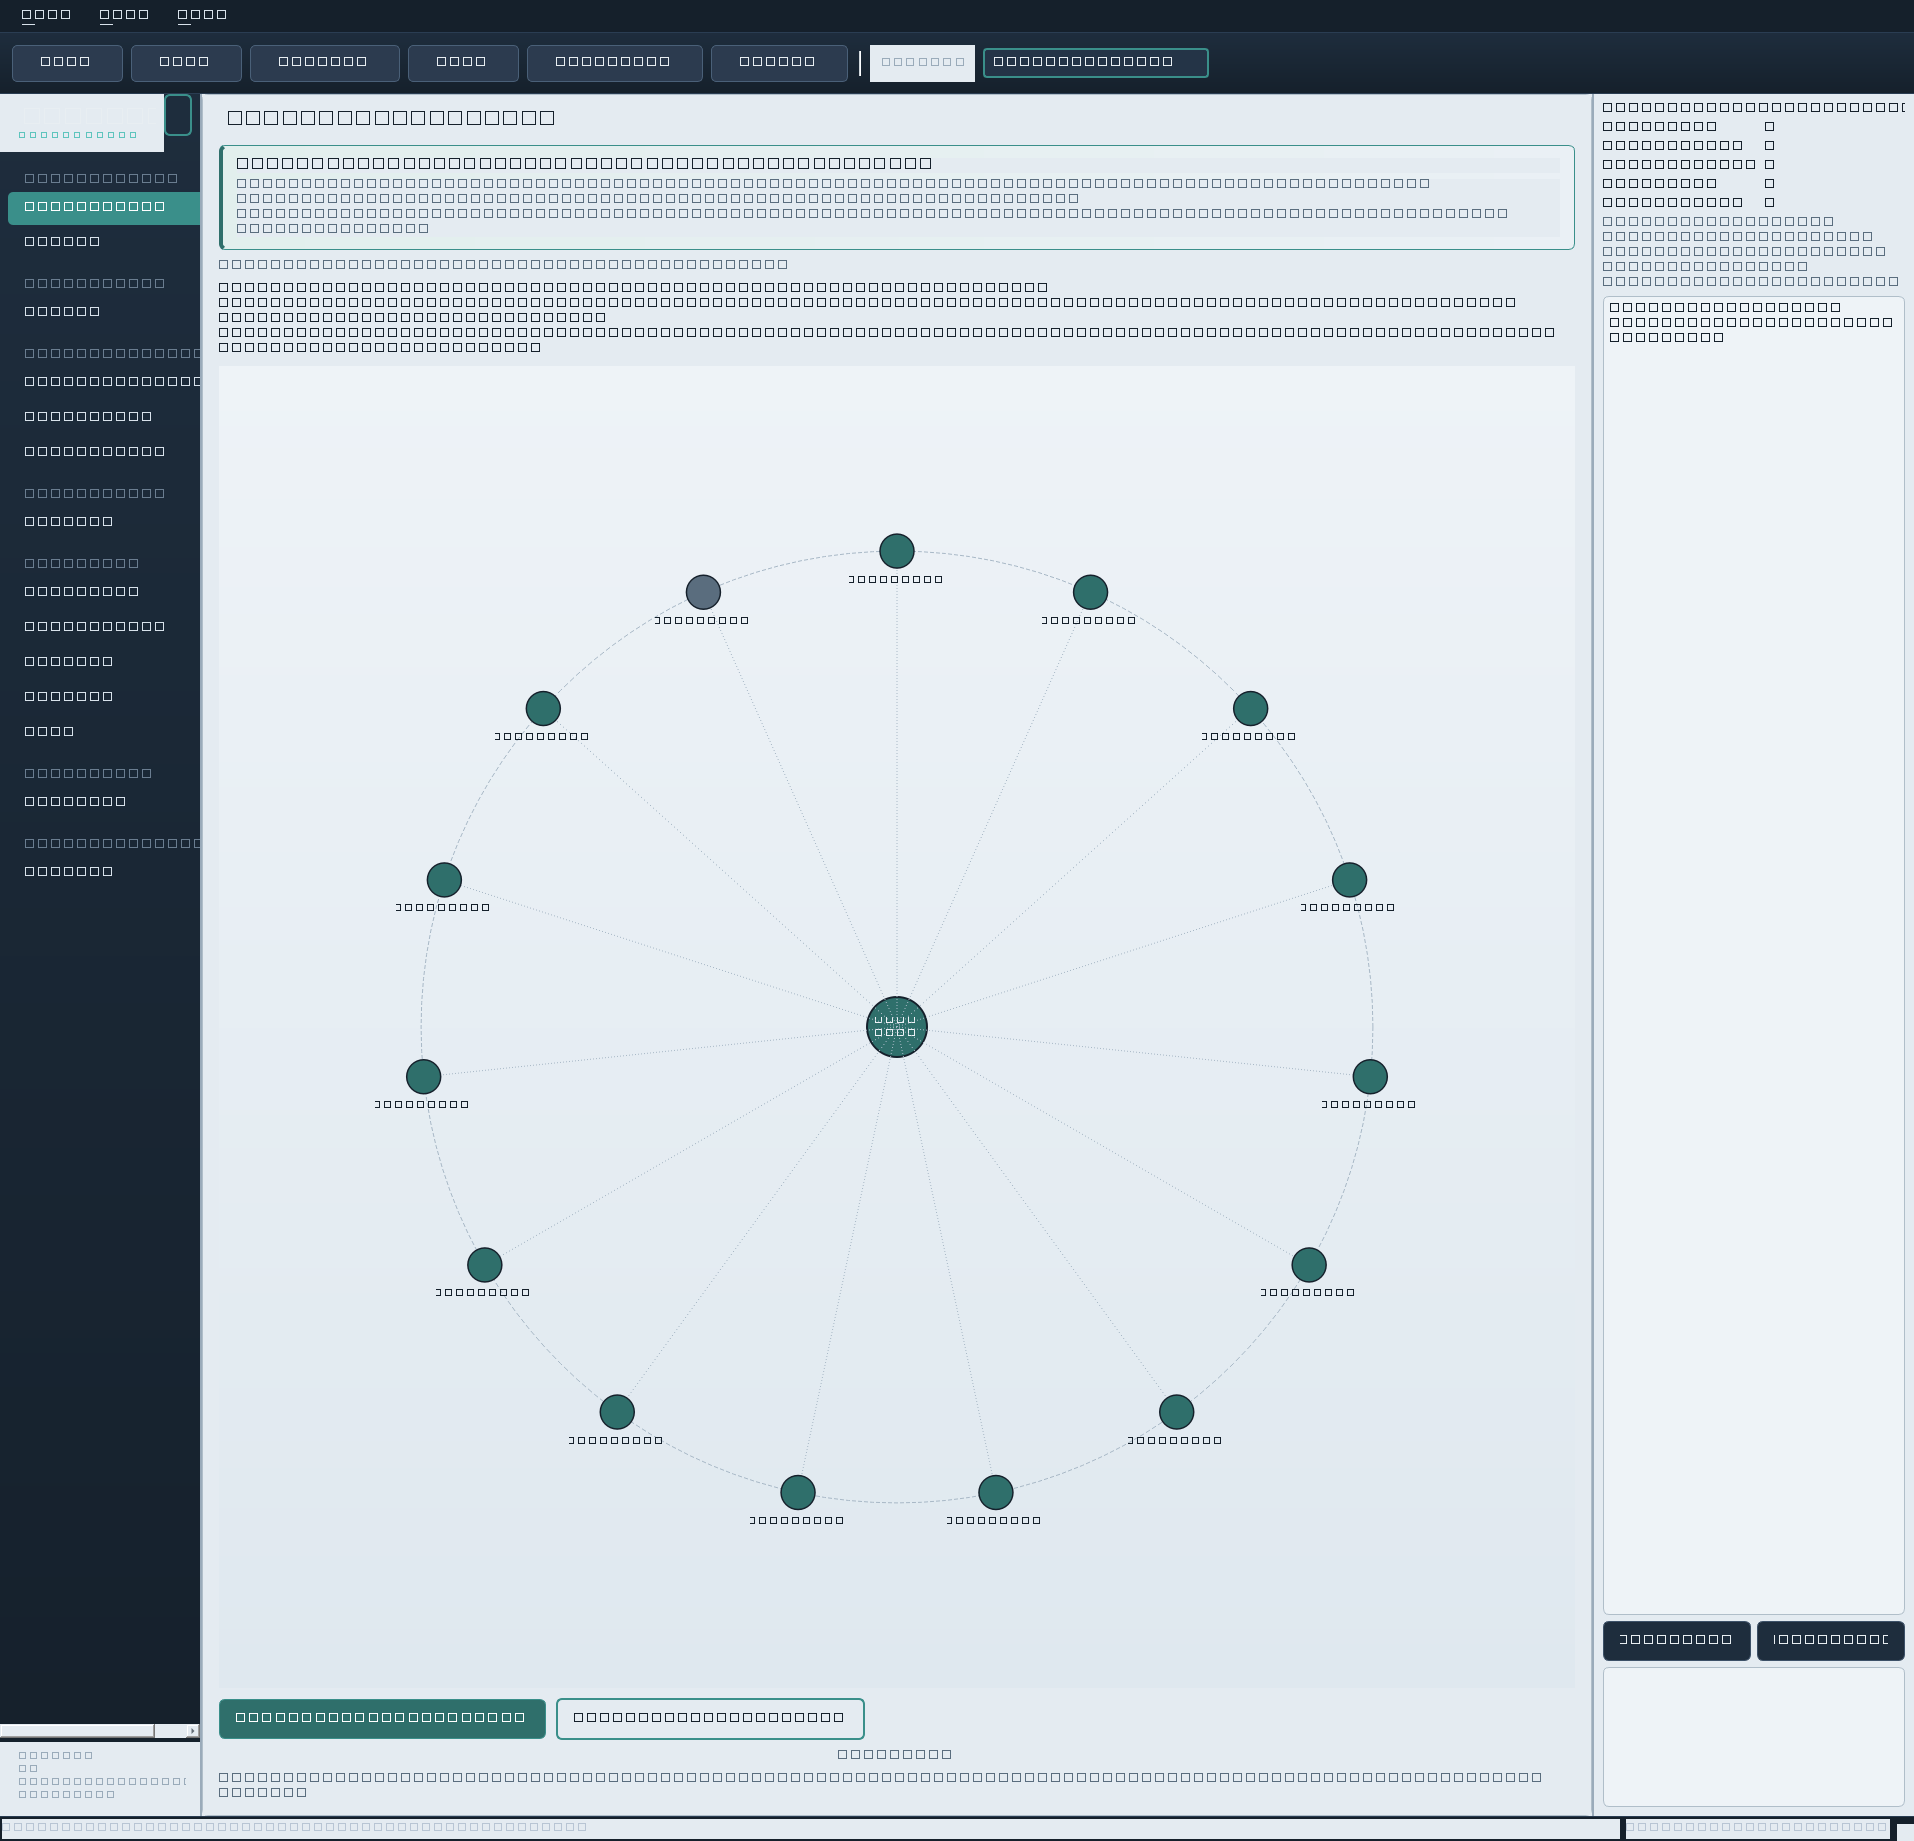
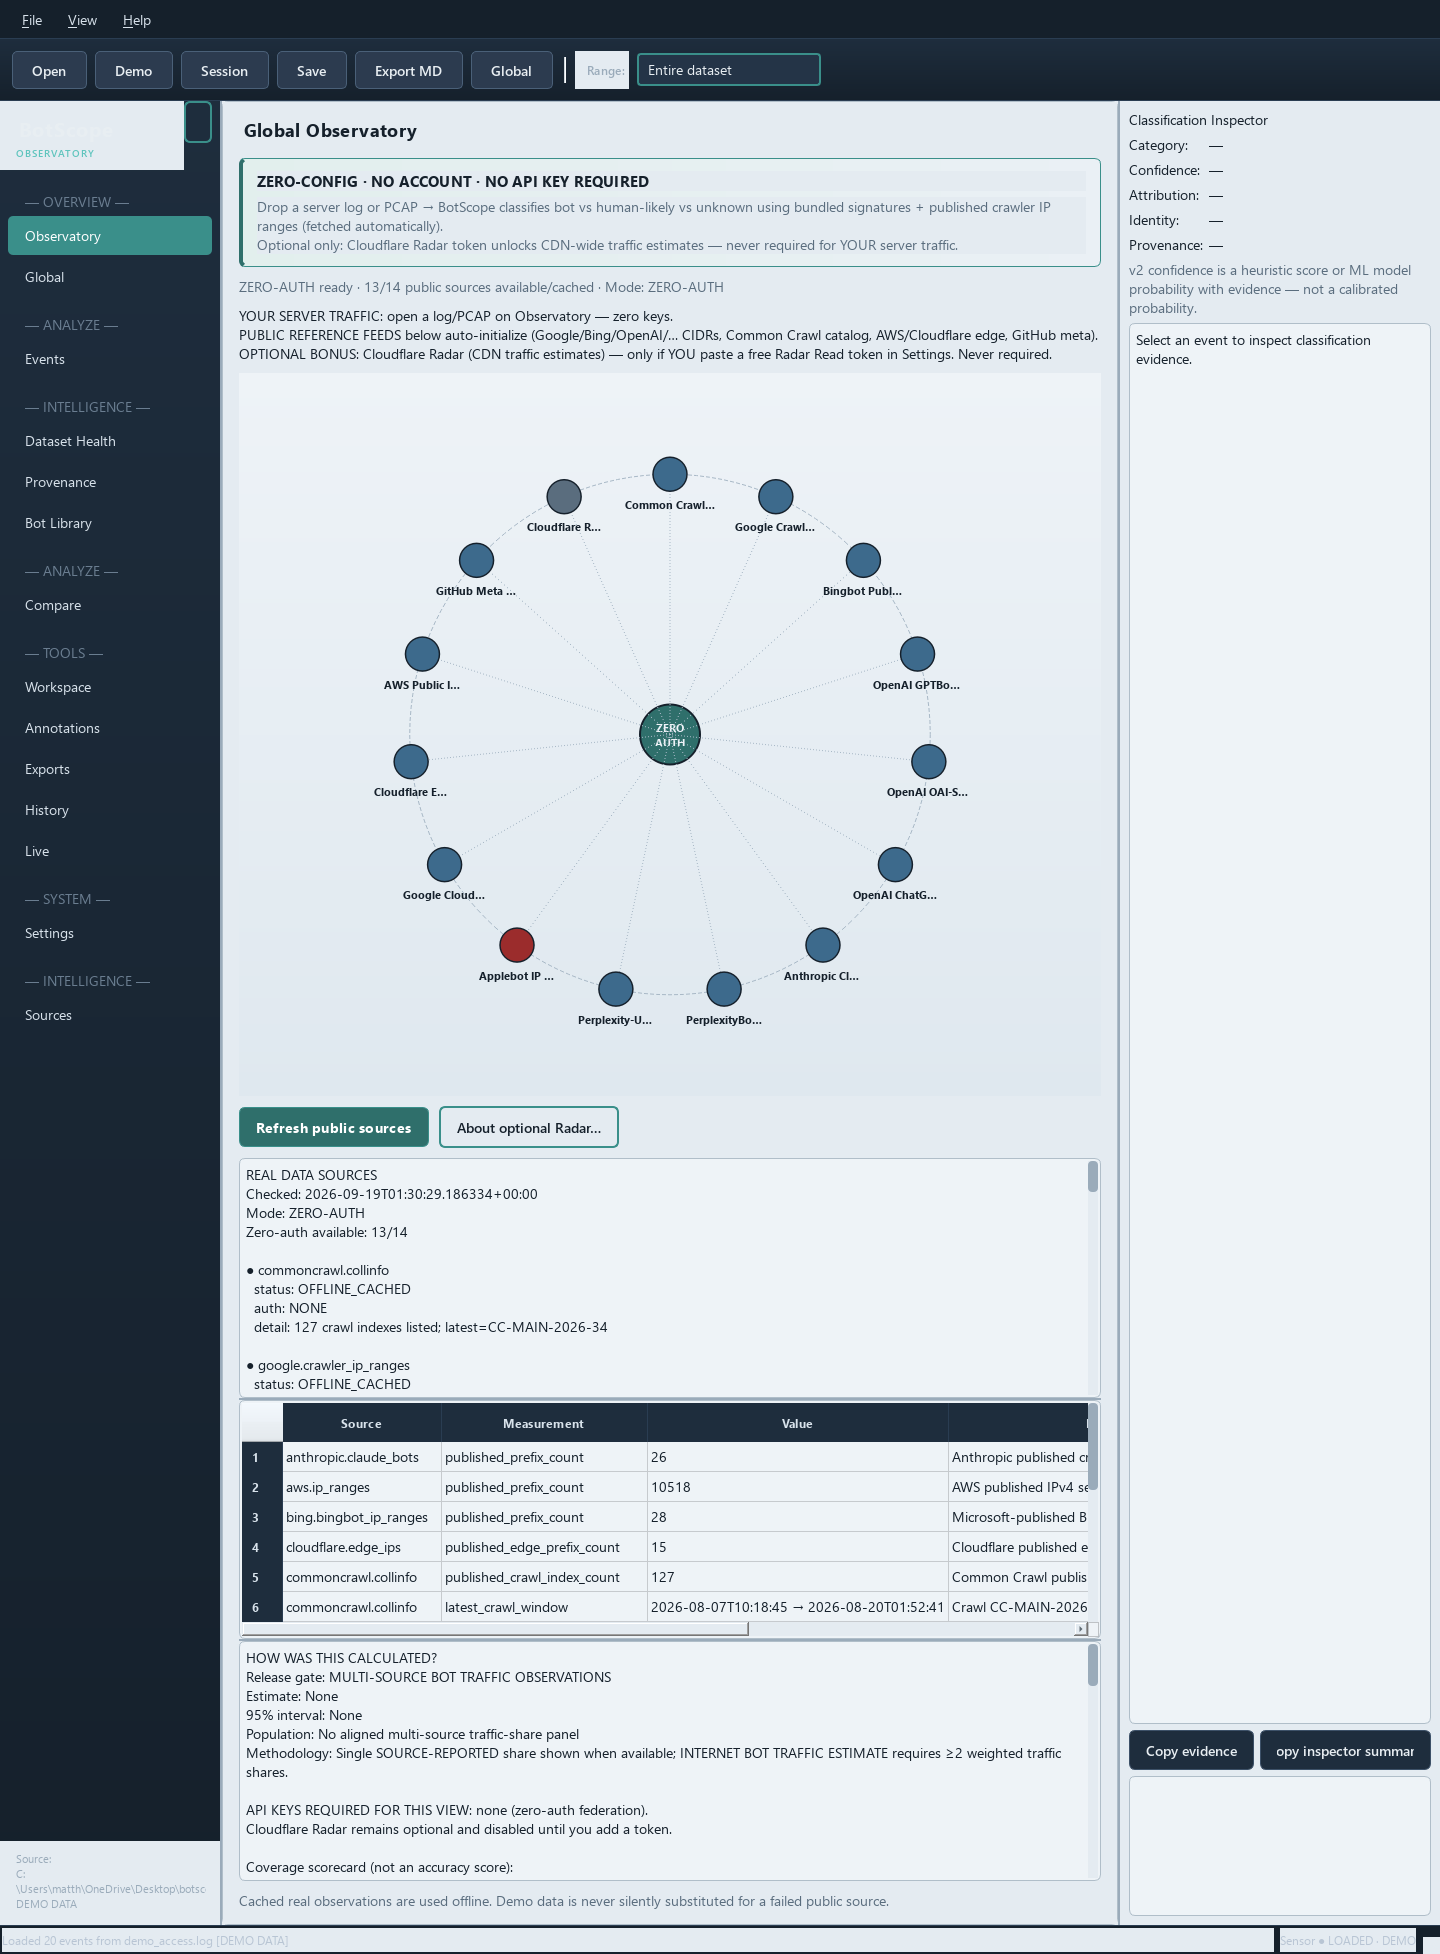
fix: restore readable GUI fonts in docs screenshots and GIF.
Qt had an empty font database here, so labels rendered as tofu boxes. Register system TTFs at launch, recapture Observatory shots, and rebuild the demo tour assets.

diff --git a/scripts/capture_docs_screenshots.py b/scripts/capture_docs_screenshots.py
@@ -7,6 +7,8 @@ Usage (from repo root, with GUI extras installed):
 
 Writes PNGs under docs/assets/screenshots/. Clears any Cloudflare token
 field before capturing Settings so no secrets appear in docs assets.
+
+Forces Segoe UI so labels never render as empty tofu boxes.
 """
 
 from __future__ import annotations
@@ -22,15 +24,45 @@ if str(SRC) not in sys.path:
     sys.path.insert(0, str(SRC))
 
 
+def _assert_text_readable(path: Path) -> None:
+    """Fail fast if the grab looks like tofu-box font failure."""
+    from PIL import Image, ImageStat
+
+    im = Image.open(path).convert("RGB")
+    w, h = im.size
+    # Probe several content bands — pages differ in where labels sit.
+    bands = [
+        (0.28, 0.10, 0.75, 0.22),
+        (0.28, 0.22, 0.75, 0.40),
+        (0.28, 0.40, 0.70, 0.58),
+    ]
+    best_spread = 0
+    best_ink = 0
+    for left, top, right, bottom in bands:
+        band = im.crop((int(w * left), int(h * top), int(w * right), int(h * bottom)))
+        gray = band.convert("L")
+        extrema = gray.getextrema()
+        spread = (extrema[1] - extrema[0]) if extrema else 0
+        pixels = list(gray.getdata())
+        ink = sum(1 for v in pixels if v < 90)
+        best_spread = max(best_spread, spread)
+        best_ink = max(best_ink, ink)
+    # Tofu-box failures are nearly flat (spread ~0). Real UI has strong contrast.
+    if best_spread < 40:
+        raise SystemExit(
+            f"ERROR: {path.name} looks unreadable "
+            f"(spread={best_spread}, ink={best_ink}). Refusing overwrite."
+        )
+
+
 def main() -> int:
-    from PySide6.QtCore import QTimer
+    from PySide6.QtCore import QTimer, Qt
     from PySide6.QtWidgets import QApplication, QLineEdit
 
-    # Avoid welcome dialog / last-session reopen during capture.
     from botscope.gui.main_window import ObservatoryWindow
     from botscope.gui.motion import set_reduce_motion
     from botscope.gui.navigation import page_index
-    from botscope.gui.theme import set_chart_theme, stylesheet_for
+    from botscope.gui.theme import apply_application_font, set_chart_theme, stylesheet_for
     from botscope.ux import load_settings
 
     OUT.mkdir(parents=True, exist_ok=True)
@@ -42,25 +74,27 @@ def main() -> int:
         open_last_session_on_start=False,
         reduce_motion=True,
         chart_animation=False,
-        # Docs shots should show full branded sidebar, not a collapsed strip.
         sidebar_collapsed=False,
         sidebar_width=220,
         theme="instrument",
-        # Never render a real token into docs screenshots.
         cloudflare_radar_token=None,
     )
 
+    # Prefer crisp integer DPI for documentation grabs.
+    QApplication.setHighDpiScaleFactorRoundingPolicy(
+        Qt.HighDpiScaleFactorRoundingPolicy.PassThrough
+    )
     app = QApplication(sys.argv)
     app.setApplicationName("BotScope")
     app.setOrganizationName("BotScope")
     app.setStyle("Fusion")
+    apply_application_font(app)
     set_chart_theme(capture_settings.theme)
     set_reduce_motion(True)
     app.setStyleSheet(stylesheet_for(capture_settings.theme))
 
     win = ObservatoryWindow(settings=capture_settings)
     win.resize(1440, 900)
-    # Force expanded branded sidebar for documentation shots.
     win._sidebar_collapsed = False
     win.nav_collapse_btn.setText("«")
     if hasattr(win, "_set_nav_collapsed_labels"):
@@ -71,8 +105,8 @@ def main() -> int:
     win.show()
     win.raise_()
     win.activateWindow()
-    # Re-assert sizes after show (layout may clamp before first paint).
     win._nav_splitter.setSizes([220, 1220])
+    app.processEvents()
 
     shots: list[tuple[str, str]] = [
         ("observatory", "observatory-dashboard.png"),
@@ -86,9 +120,14 @@ def main() -> int:
     state = {"phase": "load_demo", "attempts": 0}
 
     def grab(name: str) -> None:
+        app.processEvents()
         path = OUT / name
+        # QWidget.grab() is reliable once fonts are registered into QFontDatabase.
         pix = win.grab()
+        if pix.isNull() or pix.width() < 400:
+            raise SystemExit(f"ERROR: null/empty grab for {name}")
         pix.save(str(path), "PNG")
+        _assert_text_readable(path)
         print(f"wrote {path} ({pix.width()}x{pix.height()})")
 
     def tick() -> None:
@@ -126,19 +165,16 @@ def main() -> int:
             if settle == 0:
                 win.tabs.setCurrentIndex(page_index(page_id))
                 if page_id == "settings":
-                    # Ensure token field is empty/masked placeholder only.
                     token = win.settings_panel.cf_token
                     token.clear()
                     token.setEchoMode(QLineEdit.EchoMode.Password)
                     token.setPlaceholderText(
                         "OPTIONAL — leave blank; not needed for your server logs"
                     )
-                elif page_id == "global":
-                    # Give Global panel a moment to paint status chips.
-                    pass
                 state["settle"] = 1
                 return
-            if settle < 3:
+            # Longer settle so layout + fonts fully paint before grab.
+            if settle < 8:
                 state["settle"] = settle + 1
                 return
             grab(filename)
@@ -147,11 +183,9 @@ def main() -> int:
             return
 
     timer = QTimer()
-    timer.setInterval(150)
+    timer.setInterval(200)
     timer.timeout.connect(tick)
     timer.start()
-    # Kick off after the event loop starts.
-    QTimer.singleShot(400, lambda: None)
     return app.exec()
 
 

diff --git a/src/botscope/gui/theme.py b/src/botscope/gui/theme.py
@@ -60,6 +60,51 @@ def chart_colors() -> dict[str, str]:
     return CHART_PALETTE.get(_ACTIVE_CHART_THEME, CHART_PALETTE["instrument"])
 
 
+def apply_application_font(app) -> None:
+    """Force a universally available UI font so text never renders as tofu boxes.
+
+    Some Windows + Qt environments expose an empty QFontDatabase (family_count=0),
+    which makes every label render as hollow .notdef boxes. We explicitly register
+    common system TTF files when the database is empty or missing Segoe UI.
+    """
+    import os
+    from pathlib import Path
+
+    from PySide6.QtGui import QFont, QFontDatabase
+
+    def _ensure_system_fonts() -> None:
+        if QFontDatabase.hasFamily("Segoe UI") and QFontDatabase.hasFamily("Consolas"):
+            return
+        windir = Path(os.environ.get("WINDIR", r"C:\Windows"))
+        font_dir = windir / "Fonts"
+        if not font_dir.is_dir():
+            return
+        for filename in (
+            "segoeui.ttf",
+            "segoeuib.ttf",
+            "segoeuil.ttf",
+            "segoeuiz.ttf",
+            "seguisb.ttf",
+            "consola.ttf",
+            "consolab.ttf",
+            "arial.ttf",
+            "arialbd.ttf",
+            "tahoma.ttf",
+        ):
+            path = font_dir / filename
+            if path.is_file():
+                QFontDatabase.addApplicationFont(str(path))
+
+    _ensure_system_fonts()
+
+    preferred = ("Segoe UI", "Arial", "Tahoma", "Sans Serif")
+    family = next((name for name in preferred if QFontDatabase.hasFamily(name)), "Sans Serif")
+    font = QFont(family, 10)
+    font.setStyleHint(QFont.StyleHint.SansSerif)
+    font.setHintingPreference(QFont.HintingPreference.PreferFullHinting)
+    app.setFont(font)
+
+
 def stylesheet_for(theme: str) -> str:
     from botscope.gui.theme_contrast import HIGH_CONTRAST
 
@@ -73,8 +118,8 @@ STYLESHEET = """
 QWidget {
     background-color: #e4ebf1;
     color: #15202b;
-    font-family: "Bahnschrift", "Segoe UI Semibold", "Segoe UI", "IBM Plex Sans", sans-serif;
-    font-size: 13px;
+    font-family: "Segoe UI", "Segoe UI Variable Text", sans-serif;
+    font-size: 14px;
 }
 QMainWindow, QDialog {
     background-color: #d5dee7;
@@ -406,7 +451,7 @@ QLabel#metricValue {
     font-size: 28px;
     font-weight: 700;
     color: #15202b;
-    font-family: "Cascadia Mono", "Consolas", "Courier New", monospace;
+    font-family: "Consolas", "Courier New", monospace;
 }
 QLabel#metricCaption {
     font-size: 11px;

diff --git a/scripts/build_demo_gif.py b/scripts/build_demo_gif.py
@@ -3,11 +3,12 @@
 
 from __future__ import annotations
 
+import os
 import shutil
 import subprocess
 from pathlib import Path
 
-from PIL import Image, ImageDraw
+from PIL import Image, ImageDraw, ImageFont
 
 ROOT = Path(__file__).resolve().parents[1]
 SHOTS = ROOT / "docs" / "assets" / "screenshots"
@@ -23,10 +24,25 @@ ORDER = [
 ]
 
 
+def _caption_font(size: int = 16) -> ImageFont.ImageFont:
+    candidates = [
+        Path(os.environ.get("WINDIR", r"C:\Windows")) / "Fonts" / "segoeui.ttf",
+        Path(os.environ.get("WINDIR", r"C:\Windows")) / "Fonts" / "arial.ttf",
+    ]
+    for path in candidates:
+        if path.is_file():
+            try:
+                return ImageFont.truetype(str(path), size=size)
+            except OSError:
+                continue
+    return ImageFont.load_default()
+
+
 def main() -> None:
     DEMO.mkdir(parents=True, exist_ok=True)
     frames: list[Image.Image] = []
     target_w = 960
+    font = _caption_font(16)
     for name, caption in ORDER:
         im = Image.open(SHOTS / name).convert("RGB")
         w, h = im.size
@@ -38,7 +54,7 @@ def main() -> None:
         canvas = Image.new("RGB", (im.width, im.height + bar_h), (21, 32, 43))
         canvas.paste(im, (0, bar_h))
         draw = ImageDraw.Draw(canvas)
-        draw.text((14, 10), f"BotScope — {caption}", fill=(216, 226, 235))
+        draw.text((14, 8), f"BotScope — {caption}", fill=(216, 226, 235), font=font)
         frames.append(canvas)
 
     gif_path = DEMO / "botscope-tour.gif"

diff --git a/src/botscope/gui/app.py b/src/botscope/gui/app.py
@@ -23,7 +23,7 @@ def launch_gui(*, show_welcome: bool | None = None) -> None:
 
     from botscope.gui.main_window import ObservatoryWindow
     from botscope.gui.motion import set_reduce_motion
-    from botscope.gui.theme import set_chart_theme, stylesheet_for
+    from botscope.gui.theme import apply_application_font, set_chart_theme, stylesheet_for
     from botscope.ux import load_settings
 
     settings = load_settings()
@@ -31,6 +31,7 @@ def launch_gui(*, show_welcome: bool | None = None) -> None:
     app.setApplicationName("BotScope")
     app.setOrganizationName("BotScope")
     app.setStyle("Fusion")
+    apply_application_font(app)
     set_chart_theme(settings.theme)
     set_reduce_motion(settings.reduce_motion)
     app.setStyleSheet(stylesheet_for(settings.theme))

diff --git a/src/botscope/gui/theme_contrast.py b/src/botscope/gui/theme_contrast.py
@@ -6,7 +6,7 @@ HIGH_CONTRAST = """
 QWidget {
     background-color: #000000;
     color: #ffffff;
-    font-family: "Bahnschrift", "Segoe UI Semibold", "Segoe UI", "IBM Plex Sans", sans-serif;
+    font-family: "Segoe UI", "Segoe UI Variable Text", sans-serif;
     font-size: 14px;
 }
 QMainWindow, QDialog {
@@ -211,7 +211,7 @@ QLabel#metricValue {
     font-size: 30px;
     font-weight: 800;
     color: #ffffff;
-    font-family: "Cascadia Mono", "Consolas", monospace;
+    font-family: "Consolas", "Courier New", monospace;
 }
 QLabel#metricCaption {
     font-size: 12px;

diff --git a/src/botscope/gui/dashboard_widgets.py b/src/botscope/gui/dashboard_widgets.py
@@ -177,7 +177,7 @@ class ShareRing(QWidget):
         )
         painter.setPen(QColor(colors["ink"]))
         value_font = QFont(painter.font())
-        value_font.setFamily("Cascadia Mono")
+        value_font.setFamily("Consolas")
         value_font.setPointSize(20)
         value_font.setBold(True)
         painter.setFont(value_font)
